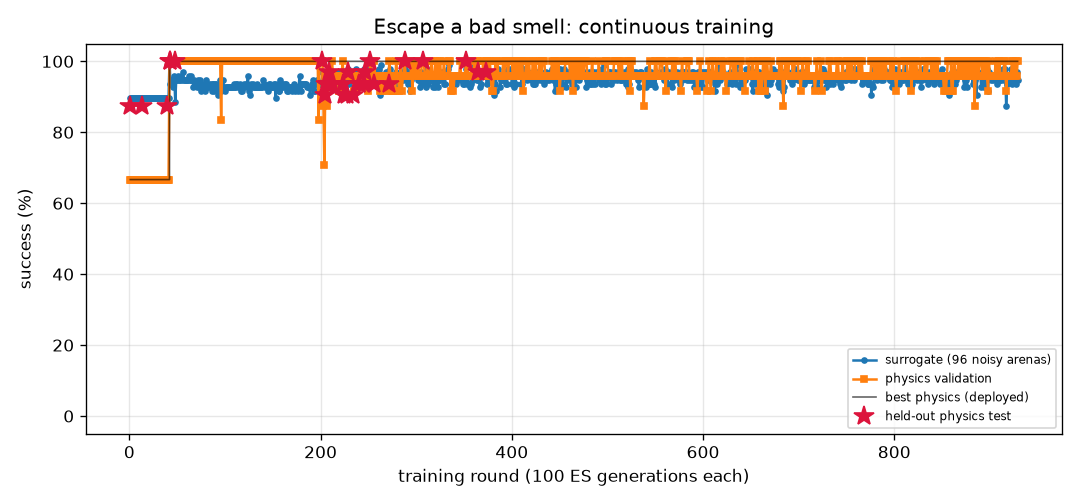
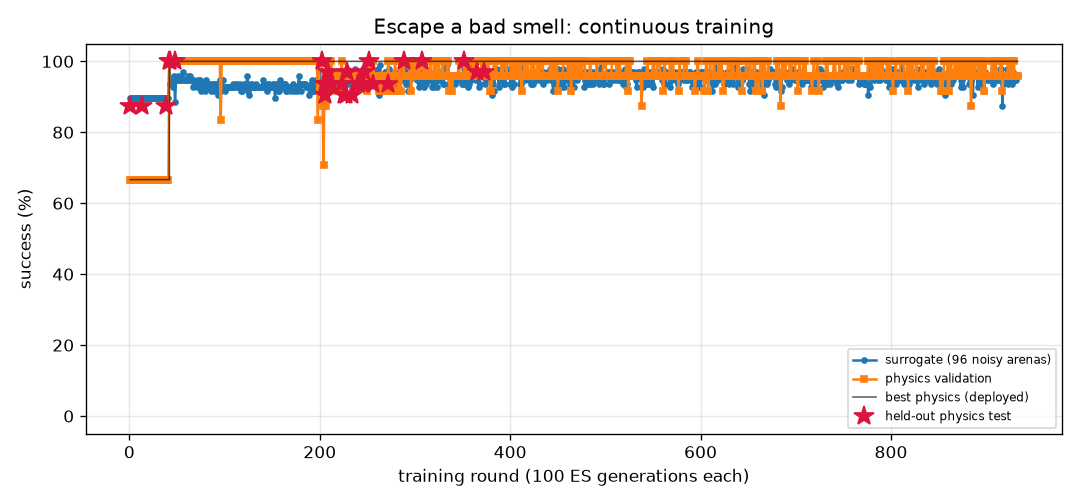
FlyLab: continuous training progress
- walk_forward: optimal, physics val 100% of 24, round 388
- turn: optimal, physics val 100% of 24, round 1062
- goto: optimal, physics val 100% of 24, round 300
- odor_seek: optimal, physics val 100% of 24, round 243
- odor_avoid: optimal, physics val 100% of 24, round 933
- light_seek: optimal, physics val 100% of 24, round 501
- light_avoid: optimal, physics val 100% of 24, round 653

diff --git a/projects/09_flylab/training/odor_avoid/REPORT.md b/projects/09_flylab/training/odor_avoid/REPORT.md
@@ -1,14 +1,14 @@
 # Escape a bad smell (`odor_avoid`) — training report
 
-*Auto-generated by `train_brains.py`, last updated 2026-11-15T15:55:26.*
+*Auto-generated by `train_brains.py`, last updated 2026-11-15T16:46:27.*
 
 ![curve](curve.png)
 
 | | |
 |---|---|
-| rounds | 929 |
-| ES generations | 92900 |
-| physics runs | 19602 |
+| rounds | 933 |
+| ES generations | 93300 |
+| physics runs | 19698 |
 | status | **optimal** |
 | best brain | round 373: physics validation **100%** on 24 arenas, surrogate 97% |
 | held-out physics test | **97%** on 32 unseen arenas (95% CI 84%-99%) (errors: [62.0, 57.4, 62.6, 61.9, 59.0, 61.6, 56.5, 60.7, 31.7, 60.9, 63.1, 57.1, 61.1, 62.1, 61.5, 60.2, 62.2, 55.2, 62.1, 54.2, 61.3, 62.0, 58.0, 61.9, 59.8, 56.5, 56.3, 56.4, 56.3, 57.7, 61.9, 32.4]) |
@@ -17,10 +17,6 @@ Physics error per arena: mm gained away from source (> 6 without first approachi
 
 | round | level | gens | sigma | surrogate | physics val | val errors | test | note |
 |---:|---:|---:|---:|---:|---:|---|---:|---|
-| 890 | 3 | 89000 | 0.026 | 96% | 100% | [63.2, 56.5, 56.4, 61.1, 62.4, 53.2, 60.7, 28.6, 60.9, 34.2, 57.6, 61.9, 50.8, 55.4, 11.7, 62.4, 62.2, 61.6, 54.8, 57.2, 61.9, 45.9, 61.6, 52.8] |  |  |
-| 891 | 3 | 89100 | 0.026 | 93% | 100% | [63.0, 57.9, 56.2, 61.0, 62.5, 62.3, 61.3, 62.2, 61.0, 60.6, 62.1, 62.2, 55.0, 56.7, 51.7, 62.0, 62.7, 61.8, 55.3, 57.3, 62.6, 62.4, 61.4, 62.7] |  |  |
-| 892 | 3 | 89200 | 0.028 | 96% | 96% | [61.9, 60.9, 55.6, 60.9, 61.0, 62.5, 60.7, 61.8, 61.6, 62.3, 62.0, 62.1, 52.3, 55.8, 43.2, 62.3, 61.6, 62.4, 54.7, 59.2, 61.8, 61.8, 61.1, 61.5] |  |  |
-| 893 | 3 | 89300 | 0.026 | 95% | 96% | [62.5, 57.4, 58.7, 60.9, 62.3, 60.8, 61.5, 21.1, 61.4, 47.7, 61.0, 60.8, 54.4, 58.2, 42.5, 62.2, 61.3, 62.0, 54.5, 57.0, 60.6, 51.1, 59.7, 41.7] |  | restart from best |
 | 894 | 3 | 89400 | 0.026 | 93% | 100% | [62.2, 59.2, 56.2, 61.0, 62.3, 60.9, 60.6, 61.1, 61.4, 60.7, 62.0, 61.7, 55.1, 56.2, 51.7, 61.9, 62.0, 61.4, 52.6, 57.2, 61.9, 62.0, 59.4, 61.5] |  |  |
 | 895 | 3 | 89500 | 0.028 | 94% | 96% | [61.8, 56.5, 56.5, 56.5, 59.9, 59.1, 61.0, 34.6, 61.7, 58.2, 58.3, 60.9, 51.4, 55.4, 39.8, 59.8, 61.4, 57.2, 54.4, 58.8, 61.3, 54.9, 59.3, 59.9] |  |  |
 | 896 | 3 | 89600 | 0.028 | 96% | 100% | [60.9, 60.2, 56.0, 56.8, 61.7, 61.3, 60.6, 38.4, 61.5, 47.7, 59.6, 61.7, 54.3, 56.3, 43.2, 60.0, 61.7, 58.9, 54.7, 58.4, 61.4, 59.6, 59.2, 59.3] |  |  |
@@ -57,3 +53,7 @@ Physics error per arena: mm gained away from source (> 6 without first approachi
 | 927 | 3 | 92700 | 0.026 | 94% | 100% | [61.5, 58.9, 56.6, 60.8, 60.5, 61.8, 61.6, 39.5, 61.9, 48.9, 58.9, 61.1, 51.8, 55.3, 46.6, 61.9, 61.8, 60.0, 54.6, 56.8, 61.2, 61.6, 59.4, 62.2] |  |  |
 | 928 | 3 | 92800 | 0.028 | 97% | 96% | [59.6, 55.6, 56.5, 58.8, 60.9, 61.1, 60.5, 54.3, 61.0, 43.8, 59.6, 61.0, 53.7, 57.6, 44.0, 60.1, 61.4, 59.6, 54.5, 55.0, 60.9, 42.9, 59.3, 50.1] |  |  |
 | 929 | 3 | 92900 | 0.026 | 95% | 100% | [60.4, 53.7, 56.4, 53.8, 61.3, 60.2, 58.5, 46.7, 59.2, 43.3, 60.7, 61.2, 53.7, 56.5, 50.8, 60.4, 61.7, 60.2, 54.1, 52.7, 61.5, 60.0, 58.1, 54.7] |  | restart from best |
+| 930 | 3 | 93000 | 0.026 | 95% | 96% | [63.0, 60.8, 56.7, 57.7, 60.4, 61.5, 61.7, 56.8, 60.7, 55.6, 60.3, 61.3, 53.3, 57.5, 38.0, 62.2, 61.7, 61.9, 54.9, 57.1, 61.7, 44.9, 55.8, 61.9] |  |  |
+| 931 | 3 | 93100 | 0.027 | 95% | 96% | [62.6, 60.7, 55.9, 60.2, 61.3, 61.5, 60.9, 62.0, 59.0, 61.6, 61.0, 61.3, 50.5, 52.4, 32.4, 61.5, 61.0, 61.0, 54.9, 60.3, 61.1, 62.2, 60.2, 62.3] |  |  |
+| 932 | 3 | 93200 | 0.027 | 96% | 96% | [61.7, 60.0, 55.4, 60.0, 60.8, 59.9, 60.1, 61.6, 59.5, 59.6, 41.5, 60.6, 47.5, 55.4, 34.1, 49.6, 60.5, 53.8, 54.7, 57.6, 60.8, 61.7, 57.8, 61.7] |  |  |
+| 933 | 3 | 93300 | 0.026 | 96% | 96% | [59.8, 54.5, 54.6, 54.1, 58.9, 58.1, 59.1, 29.5, 59.2, 44.4, 58.8, 59.8, 51.5, 52.6, 44.3, 59.5, 59.8, 58.5, 53.3, 55.2, 59.8, 59.5, 53.8, 60.3] |  | restart from best |

diff --git a/projects/09_flylab/training/turn/REPORT.md b/projects/09_flylab/training/turn/REPORT.md
@@ -1,14 +1,14 @@
 # Turn in place (`turn`) — training report
 
-*Auto-generated by `train_brains.py`, last updated 2026-11-15T15:58:33.*
+*Auto-generated by `train_brains.py`, last updated 2026-11-15T16:48:25.*
 
 ![curve](curve.png)
 
 | | |
 |---|---|
-| rounds | 1057 |
-| ES generations | 105700 |
-| physics runs | 25614 |
+| rounds | 1062 |
+| ES generations | 106200 |
+| physics runs | 25734 |
 | status | **optimal** |
 | best brain | round 80: physics validation **100%** on 24 arenas, surrogate 100% |
 | held-out physics test | **97%** on 32 unseen arenas (95% CI 84%-99%) (errors: [1.6, 3.3, 6.3, 3.7, 1.1, 0.4, 2.4, 2.9, 0.1, 2.6, 0.5, 2.7, 1.5, 3.1, 4.5, 0.2, 0.5, 1.1, 2.0, 4.4, 2.8, 3.2, 0.3, 2.2, 0.5, 3.0, 0.3, 5.4, 0.4, 1.0, 4.7, 10.7]) |
@@ -17,11 +17,6 @@ Physics error per arena: deg from target heading (< 20 = success).
 
 | round | level | gens | sigma | surrogate | physics val | val errors | test | note |
 |---:|---:|---:|---:|---:|---:|---|---:|---|
-| 1018 | 3 | 101800 | 0.025 | 100% | 83% | [0.8, 4.3, 8.9, 0.8, 16.6, 4.9, 8.1, 9.3, 9.0, 2.9, 5.9, 4.2, 3.8, 0.5, 5.1, 4.5, 3.8, 4.0, 4.7, 5.0, 3.1, 1.1, 7.3, 10.0] |  |  |
-| 1019 | 3 | 101900 | 0.024 | 100% | 75% | [6.7, 2.9, 2.6, 0.9, 5.7, 3.0, 5.3, 0.6, 5.1, 0.3, 5.9, 0.4, 0.1, 0.4, 4.1, 2.7, 0.8, 2.1, 3.3, 2.8, 6.2, 0.2, 4.4, 6.6] |  |  |
-| 1020 | 3 | 102000 | 0.024 | 97% | 71% | [9.0, 8.5, 0.2, 3.8, 0.0, 4.3, 4.1, 0.0, 3.9, 0.2, 2.1, 2.6, 0.6, 3.1, 2.2, 2.2, 1.5, 0.0, 1.5, 1.7, 7.9, 0.6, 2.4, 1.3] |  | restart from best |
-| 1021 | 3 | 102100 | 0.024 | 98% | 79% | [2.7, 7.4, 0.9, 2.7, 1.5, 118.3, 4.0, 2.4, 3.3, 0.3, 2.7, 0.7, 1.6, 2.7, 2.8, 1.3, 1.6, 0.1, 0.0, 1.1, 4.2, 0.2, 2.9, 7.3] |  |  |
-| 1022 | 3 | 102200 | 0.025 | 99% | 92% | [7.8, 10.8, 8.7, 2.1, 3.3, 1.8, 1.7, 2.6, 2.0, 1.4, 1.5, 2.5, 2.8, 2.8, 1.9, 0.2, 2.6, 2.6, 3.5, 3.3, 5.9, 1.0, 4.1, 8.1] |  |  |
 | 1023 | 3 | 102300 | 0.025 | 98% | 79% | [4.8, 4.3, 4.7, 0.0, 3.2, 4.2, 7.7, 4.1, 6.4, 0.7, 5.5, 1.5, 0.1, 1.6, 5.7, 1.1, 1.5, 14.7, 4.2, 2.9, 4.4, 1.4, 7.3, 9.5] |  |  |
 | 1024 | 3 | 102400 | 0.025 | 99% | 79% | [5.9, 4.9, 0.8, 1.5, 5.4, 3.1, 4.5, 4.0, 6.1, 1.3, 4.9, 0.6, 0.5, 1.6, 4.3, 0.1, 1.1, 1.2, 0.3, 0.3, 4.8, 3.8, 5.7, 3.6] |  | restart from best |
 | 1025 | 3 | 102500 | 0.024 | 100% | 96% | [9.3, 10.1, 3.2, 4.4, 1.9, 3.5, 2.3, 4.6, 2.3, 2.0, 2.5, 4.2, 1.5, 6.6, 1.8, 3.5, 4.0, 1.1, 2.9, 1.2, 8.3, 2.4, 1.5, 0.9] |  |  |
@@ -57,3 +52,8 @@ Physics error per arena: deg from target heading (< 20 = success).
 | 1055 | 3 | 105500 | 0.024 | 98% | 83% | [6.4, 8.1, 8.4, 0.9, 5.3, 1.8, 4.9, 2.2, 4.4, 0.3, 4.5, 2.3, 1.3, 4.1, 2.9, 1.4, 1.7, 0.7, 1.4, 0.8, 5.6, 1.4, 4.1, 5.2] |  |  |
 | 1056 | 3 | 105600 | 0.025 | 100% | 96% | [5.9, 8.6, 5.7, 4.9, 9.1, 1.3, 3.8, 2.2, 3.4, 0.8, 2.7, 1.1, 1.9, 4.0, 3.3, 0.9, 1.2, 1.5, 9.4, 0.5, 6.4, 0.2, 2.1, 4.5] |  | restart from best |
 | 1057 | 3 | 105700 | 0.024 | 99% | 79% | [7.3, 8.5, 9.0, 2.9, 7.3, 1.8, 2.5, 0.2, 3.4, 0.2, 4.2, 2.6, 1.5, 1.2, 2.0, 2.0, 2.5, 0.1, 1.9, 1.8, 6.7, 0.5, 3.4, 3.5] |  |  |
+| 1058 | 3 | 105800 | 0.025 | 99% | 79% | [2.8, 5.1, 6.4, 1.0, 5.7, 1.2, 3.9, 4.3, 5.6, 0.3, 4.4, 0.2, 2.3, 1.6, 3.3, 2.1, 0.6, 1.9, 2.2, 0.2, 4.0, 0.6, 6.0, 3.6] |  |  |
+| 1059 | 3 | 105900 | 0.025 | 100% | 71% | [6.3, 0.5, 6.5, 0.5, 4.5, 1.9, 5.5, 2.2, 6.0, 0.3, 6.0, 0.7, 1.4, 0.3, 4.7, 1.1, 0.7, 1.7, 0.9, 1.3, 6.2, 2.1, 8.2, 7.8] |  |  |
+| 1060 | 3 | 106000 | 0.024 | 99% | 75% | [5.0, 0.2, 6.9, 0.2, 1.7, 3.7, 6.4, 1.9, 5.7, 0.1, 5.4, 0.4, 1.4, 0.9, 4.5, 1.8, 0.3, 3.4, 1.7, 0.1, 2.8, 0.0, 5.5, 7.3] |  | restart from best |
+| 1061 | 3 | 106100 | 0.024 | 100% | 83% | [1.1, 5.4, 0.8, 3.4, 1.7, 1.2, 4.5, 5.3, 6.6, 0.4, 4.1, 1.3, 2.2, 2.3, 3.4, 1.4, 0.9, 0.3, 2.8, 0.8, 2.0, 1.9, 5.5, 5.8] |  |  |
+| 1062 | 3 | 106200 | 0.024 | 99% | 92% | [5.7, 7.3, 0.4, 2.0, 12.2, 1.8, 3.6, 3.0, 3.5, 1.6, 2.4, 0.5, 3.7, 4.1, 1.9, 0.5, 0.3, 0.2, 0.9, 1.1, 2.4, 0.2, 4.6, 0.9] |  |  |

diff --git a/projects/09_flylab/training/light_avoid/REPORT.md b/projects/09_flylab/training/light_avoid/REPORT.md
@@ -1,14 +1,14 @@
 # Hide from light (`light_avoid`) — training report
 
-*Auto-generated by `train_brains.py`, last updated 2026-11-15T13:16:52.*
+*Auto-generated by `train_brains.py`, last updated 2026-11-15T16:56:21.*
 
 ![curve](curve.png)
 
 | | |
 |---|---|
-| rounds | 652 |
-| ES generations | 65200 |
-| physics runs | 15920 |
+| rounds | 653 |
+| ES generations | 65300 |
+| physics runs | 15944 |
 | status | **optimal** |
 | best brain | round 159: physics validation **100%** on 24 arenas, surrogate 100% |
 | held-out physics test | **100%** on 32 unseen arenas (95% CI 89%-100%) (errors: [14.4, 56.1, 58.0, 57.9, 57.5, 14.0, 14.4, 56.6, 56.8, 13.3, 14.1, 56.6, 57.6, 13.1, 57.3, 55.9, 57.2, 55.0, 55.2, 53.9, 55.2, 12.4, 53.8, 53.7, 14.1, 13.7, 55.0, 57.8, 56.2, 13.1, 52.8, 56.5]) |
@@ -17,7 +17,6 @@ Physics error per arena: mm gained away from source (> 6 without first approachi
 
 | round | level | gens | sigma | surrogate | physics val | val errors | test | note |
 |---:|---:|---:|---:|---:|---:|---|---:|---|
-| 613 | 3 | 61300 | 0.024 | 100% | 100% | [55.9, 58.9, 58.6, 56.5, 58.2, 57.0, 57.5, 14.5, 47.5, 13.6, 57.7, 58.0, 14.4, 57.5, 58.8, 56.6, 14.2, 58.7, 59.2, 14.4, 55.0, 58.0, 57.0, 57.5] |  |  |
 | 614 | 3 | 61400 | 0.024 | 100% | 100% | [48.9, 50.0, 49.7, 48.7, 49.4, 49.2, 48.6, 14.5, 45.7, 13.3, 48.5, 49.3, 14.4, 49.1, 49.9, 47.6, 14.2, 50.1, 50.4, 14.4, 47.8, 48.5, 48.5, 48.7] |  |  |
 | 615 | 3 | 61500 | 0.024 | 100% | 100% | [43.6, 43.4, 44.3, 44.8, 45.4, 44.5, 39.4, 14.5, 42.8, 13.2, 43.2, 47.4, 14.4, 42.6, 43.0, 43.9, 14.2, 46.5, 44.0, 14.4, 44.6, 42.9, 41.4, 46.4] |  | restart from best |
 | 616 | 3 | 61600 | 0.024 | 100% | 100% | [50.8, 51.5, 51.6, 51.0, 45.9, 50.7, 52.0, 14.5, 45.5, 13.5, 49.0, 46.0, 14.4, 48.3, 51.7, 50.6, 14.2, 48.2, 50.8, 14.4, 50.9, 49.8, 52.0, 44.8] |  |  |
@@ -57,3 +56,4 @@ Physics error per arena: mm gained away from source (> 6 without first approachi
 | 650 | 3 | 65000 | 0.024 | 100% | 100% | [55.0, 58.1, 57.9, 55.3, 56.7, 56.1, 57.0, 14.5, 50.5, 13.4, 56.0, 56.5, 14.4, 56.5, 58.0, 54.9, 14.2, 57.2, 58.4, 14.4, 54.0, 55.2, 56.6, 55.6] |  |  |
 | 651 | 3 | 65100 | 0.024 | 99% | 100% | [46.3, 46.2, 46.4, 45.9, 43.0, 46.2, 46.9, 14.5, 12.9, 13.4, 30.4, 42.4, 14.4, 40.9, 45.9, 44.9, 14.2, 43.8, 46.8, 14.4, 43.6, 30.5, 46.5, 41.8] |  | restart from best |
 | 652 | 3 | 65200 | 0.024 | 100% | 100% | [50.3, 50.1, 50.3, 49.8, 45.5, 49.5, 50.8, 14.5, 43.0, 13.4, 47.7, 45.0, 14.4, 46.8, 49.9, 49.6, 14.2, 46.6, 49.1, 14.4, 49.0, 49.3, 50.4, 44.6] |  |  |
+| 653 | 3 | 65300 | 0.024 | 100% | 100% | [50.0, 50.3, 51.0, 50.0, 45.7, 50.0, 51.1, 14.5, 48.3, 13.1, 48.4, 45.8, 14.4, 49.5, 50.7, 50.0, 14.2, 47.3, 49.8, 14.4, 49.8, 49.1, 51.3, 44.1] |  |  |

diff --git a/projects/09_flylab/training/TRAINING.md b/projects/09_flylab/training/TRAINING.md
@@ -1,15 +1,15 @@
 # FlyLab brains — continuous training log
 
-*Auto-generated by `train_brains.py`, last updated 2026-11-15T15:58:33.*
+*Auto-generated by `train_brains.py`, last updated 2026-11-15T16:56:21.*
 
 Every skill has its own brain and its own training process: surrogate ES rounds, physics validation in MuJoCo, keep-the-best selection, and a held-out physics test that is never used for selection. See each skill's report for its full round-by-round history. Mastery is progressive: passing a level (100% physics validation, >=95% surrogate) doubles the validation and test arena sets; a brain is **optimal** once it holds up at level 3 (>=95% of 24 validation arenas) AND scores >=90% on the 32 held-out test arenas. Test columns show 95% Wilson confidence intervals.
 
 | skill | rounds | ES generations | physics runs | surrogate | physics val | **physics test** | status |
 |---|---:|---:|---:|---:|---:|---:|---|
 | [Walk forward](walk_forward/REPORT.md) | 388 | 38800 | 9326 | 100% | 100% of 24 | 100% of 32 (CI 89-100%) | **optimal** |
-| [Turn in place](turn/REPORT.md) | 1057 | 105700 | 25614 | 100% | 100% of 24 | 97% of 32 (CI 84-99%) | **optimal** |
+| [Turn in place](turn/REPORT.md) | 1062 | 106200 | 25734 | 100% | 100% of 24 | 97% of 32 (CI 84-99%) | **optimal** |
 | [Go to a location](goto/REPORT.md) | 300 | 30000 | 7150 | 100% | 100% of 24 | 100% of 32 (CI 89-100%) | **optimal** |
 | [Find food by smell](odor_seek/REPORT.md) | 243 | 24300 | 5326 | 100% | 100% of 24 | 100% of 32 (CI 89-100%) | **optimal** |
-| [Escape a bad smell](odor_avoid/REPORT.md) | 929 | 92900 | 19602 | 97% | 100% of 24 | 97% of 32 (CI 84-99%) | **optimal** |
+| [Escape a bad smell](odor_avoid/REPORT.md) | 933 | 93300 | 19698 | 97% | 100% of 24 | 97% of 32 (CI 84-99%) | **optimal** |
 | [Walk toward light](light_seek/REPORT.md) | 501 | 50100 | 8904 | 100% | 100% of 24 | 100% of 32 (CI 89-100%) | **optimal** |
-| [Hide from light](light_avoid/REPORT.md) | 652 | 65200 | 15920 | 100% | 100% of 24 | 100% of 32 (CI 89-100%) | **optimal** |
+| [Hide from light](light_avoid/REPORT.md) | 653 | 65300 | 15944 | 100% | 100% of 24 | 100% of 32 (CI 89-100%) | **optimal** |
